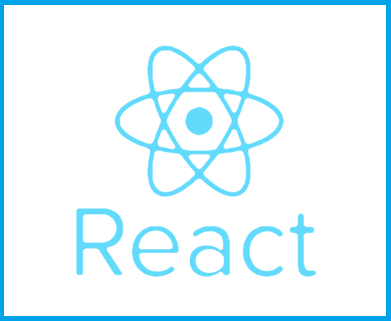
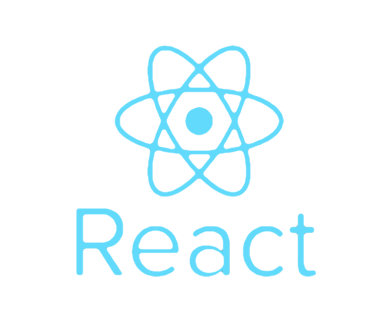
add background color and erase frame of react and redux img

Changed region(s): [[0.0, 0.0, 1.0, 1.0]]

diff --git a/src/components/Nav.module.css b/src/components/Nav.module.css
@@ -1,23 +1,23 @@
 .frame {
-    display: flex;
-    flex-wrap: wrap;
-    font-weight: bolder;
+  display: flex;
+  flex-wrap: wrap;
+  font-weight: bolder;
 }
 
 .title {
-    font-size: 50px;
+  font-size: 50px;
 }
 
 .items {
-    justify-content: right;
-    font-size: 20px;
+  justify-content: right;
+  font-size: 20px;
 }
 
 .a {
-    text-decoration: none;
-    color: inherit;
+  text-decoration: none;
+  color: inherit;
 }
 
-.a:hover{
-    color: inherit;
+.a:hover {
+  color: inherit;
 }

diff --git a/src/App.js b/src/App.js
@@ -8,12 +8,14 @@ function App() {
   return (
     <>
       <BrowserRouter>
+        <div style={{backgroundColor:"rgb(254, 247, 237)"}}>
         <Navigation />
         <Routes>
           <Route path={"/"} element={<Home />}></Route>
           <Route path="/Introduction" element={<Introduction />}></Route>
           <Route path="/History" element={<History />}></Route>
         </Routes>
+        </div>
       </BrowserRouter>
     </>
   );

diff --git a/src/routes/Introduction.js b/src/routes/Introduction.js
@@ -5,7 +5,7 @@ import { FcBusinesswoman, FcIphone, FcLink } from "react-icons/fc";
 
 function Introduction() {
   return (
-    <>
+    <div className={styles.home}>
       <div className={styles.title}>Introduction</div>
       <div className={styles.content}>
         <div className={styles.img}>
@@ -65,7 +65,7 @@ function Introduction() {
           </div>
         </div>
       </div>
-    </>
+    </div>
   );
 }
 

diff --git a/src/routes/Introduction.module.css b/src/routes/Introduction.module.css
@@ -1,3 +1,8 @@
+.home {
+  height: 100vh;
+  box-sizing: border-box;
+}
+
 .title {
   font-size: 50px;
   text-align: center;
@@ -55,6 +60,7 @@ a:hover {
   width: 70px;
   margin-right: 10px;
   transition: all 0.2s linear;
+  border-radius: 5px;
 }
 
 .logos:hover {

diff --git a/src/routes/Home.js b/src/routes/Home.js
@@ -11,6 +11,7 @@ function Home() {
         objectFit: "contain",
         display: "block",
         marginLeft: "5px",
+        borderRadius: "20px",
       }}
       src="img/projects/calculator.jpg"
       alt="calculator"

diff --git a/src/routes/History.js b/src/routes/History.js
@@ -1,8 +1,11 @@
 import React from "react";
+import styles from './History.module.css'
 
 function History() {
     return (
-        <div>Hello</div>
+        <div className={styles.home}>
+
+        </div>
     )
 }
 

diff --git a/src/routes/Home.module.css b/src/routes/Home.module.css
@@ -21,6 +21,7 @@
 .imgs {
   display: grid;
   grid-template-columns: 3fr 2fr;
+  margin-right: 50px;
 }
 
 .left_col,
@@ -32,7 +33,7 @@
 }
 
 .right_col {
-    margin-right: 30px;
+  margin-right: 30px;
 }
 
 .small {

diff --git a/src/routes/History.module.css b/src/routes/History.module.css
@@ -1,0 +1,4 @@
+.home {
+    height: 100vh;
+    box-sizing: border-box;
+  }
